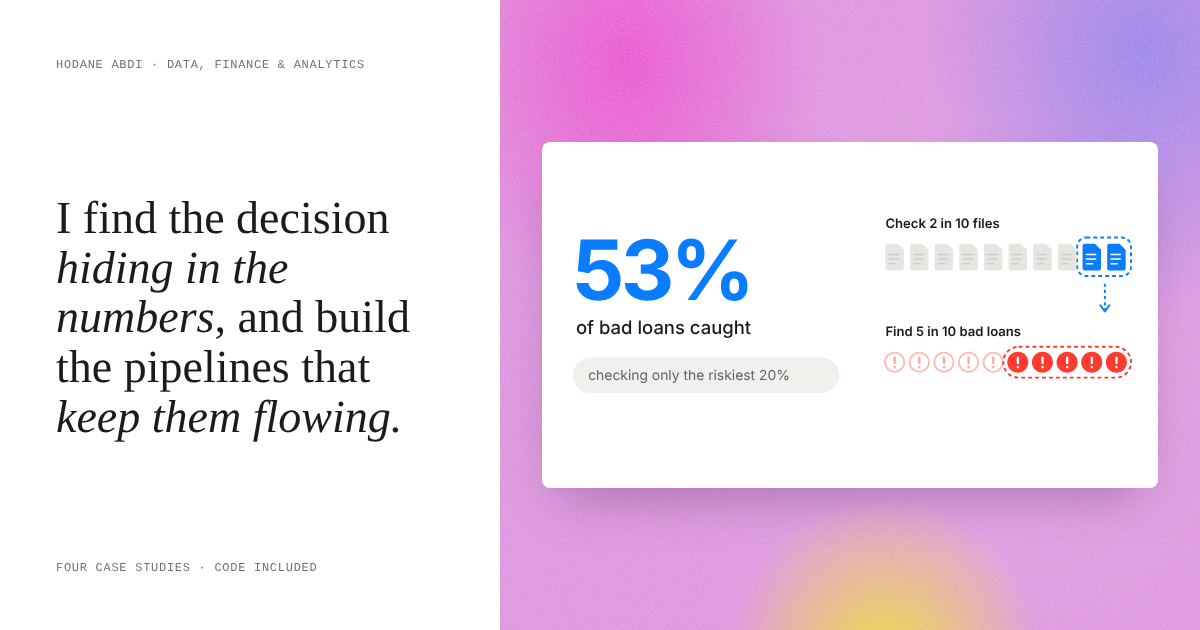
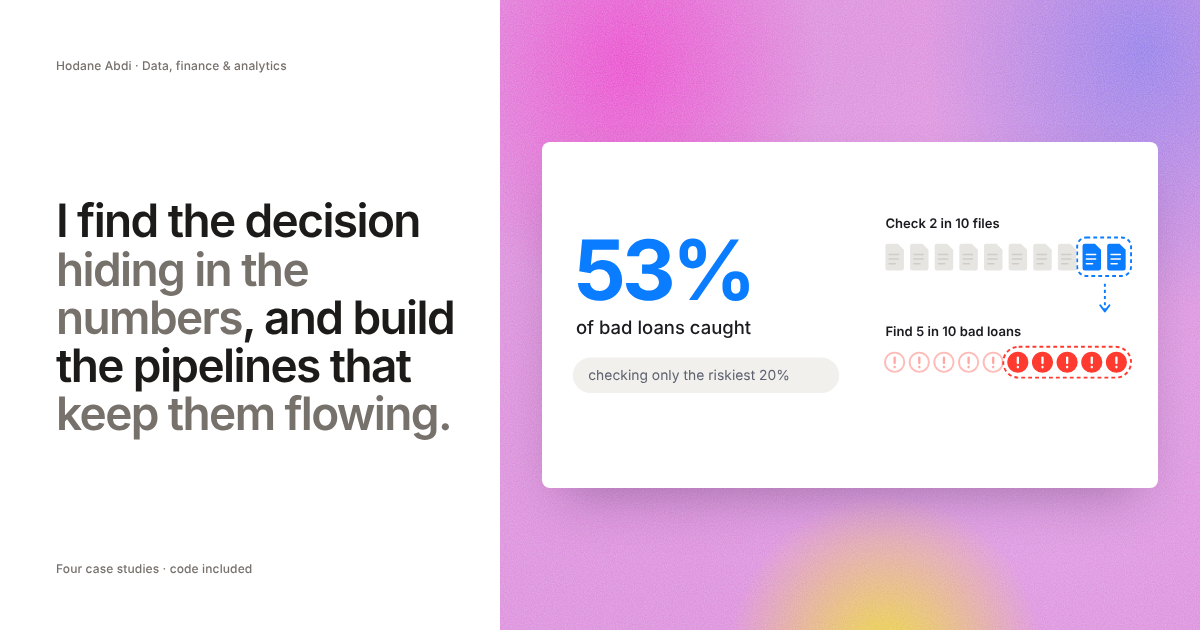
Switch to Helvetica throughout and centre the headline
Claude-Session: https://claude.ai/code/session_01LUFxhCthvcySVntbZ5Zn7R

diff --git a/assets/style.css b/assets/style.css
@@ -185,3 +185,15 @@ input[type=range]{width:100%;accent-color:var(--ink);height:30px}
 .ring{stroke-dashoffset:var(--len);transition:stroke-dashoffset 1.6s var(--ease) .2s}
 .in .ring{stroke-dashoffset:0}
 @media (prefers-reduced-motion:reduce){.ring{stroke-dashoffset:0!important;transition:none}}
+
+/* ---------- Helvetica throughout, centred headline ---------- */
+:root{--serif:"Helvetica Neue",Helvetica,Inter,Arial,sans-serif;--mono:"Helvetica Neue",Helvetica,Inter,Arial,sans-serif;--sans:"Helvetica Neue",Helvetica,Inter,Arial,sans-serif}
+.intro h1,.cs-head h1,.about h2,.stat .num,.statement,.next .t,.cap .qt,.glance h3,.hero h2,.vhead h5,.lead-a,.readout .big{font-family:var(--serif);font-weight:600;letter-spacing:-.035em}
+.intro h1{font-size:clamp(38px,5vw,64px);line-height:1.04}
+.intro em,.cs-head em{font-style:normal;color:#77716c}
+.cap .no{font-style:normal;font-weight:600;letter-spacing:-.04em}
+.mono,.nav,.links-row,.cap .go,.cta,.body h4,.chips span,table.t th,.ctl label{letter-spacing:.01em;text-transform:none;font-weight:500}
+.nav a{text-transform:none}
+.intro{text-align:center;margin:0 auto;max-width:1060px}
+.intro .lede{margin-left:auto;margin-right:auto}
+.statement{font-weight:500;letter-spacing:-.025em}
